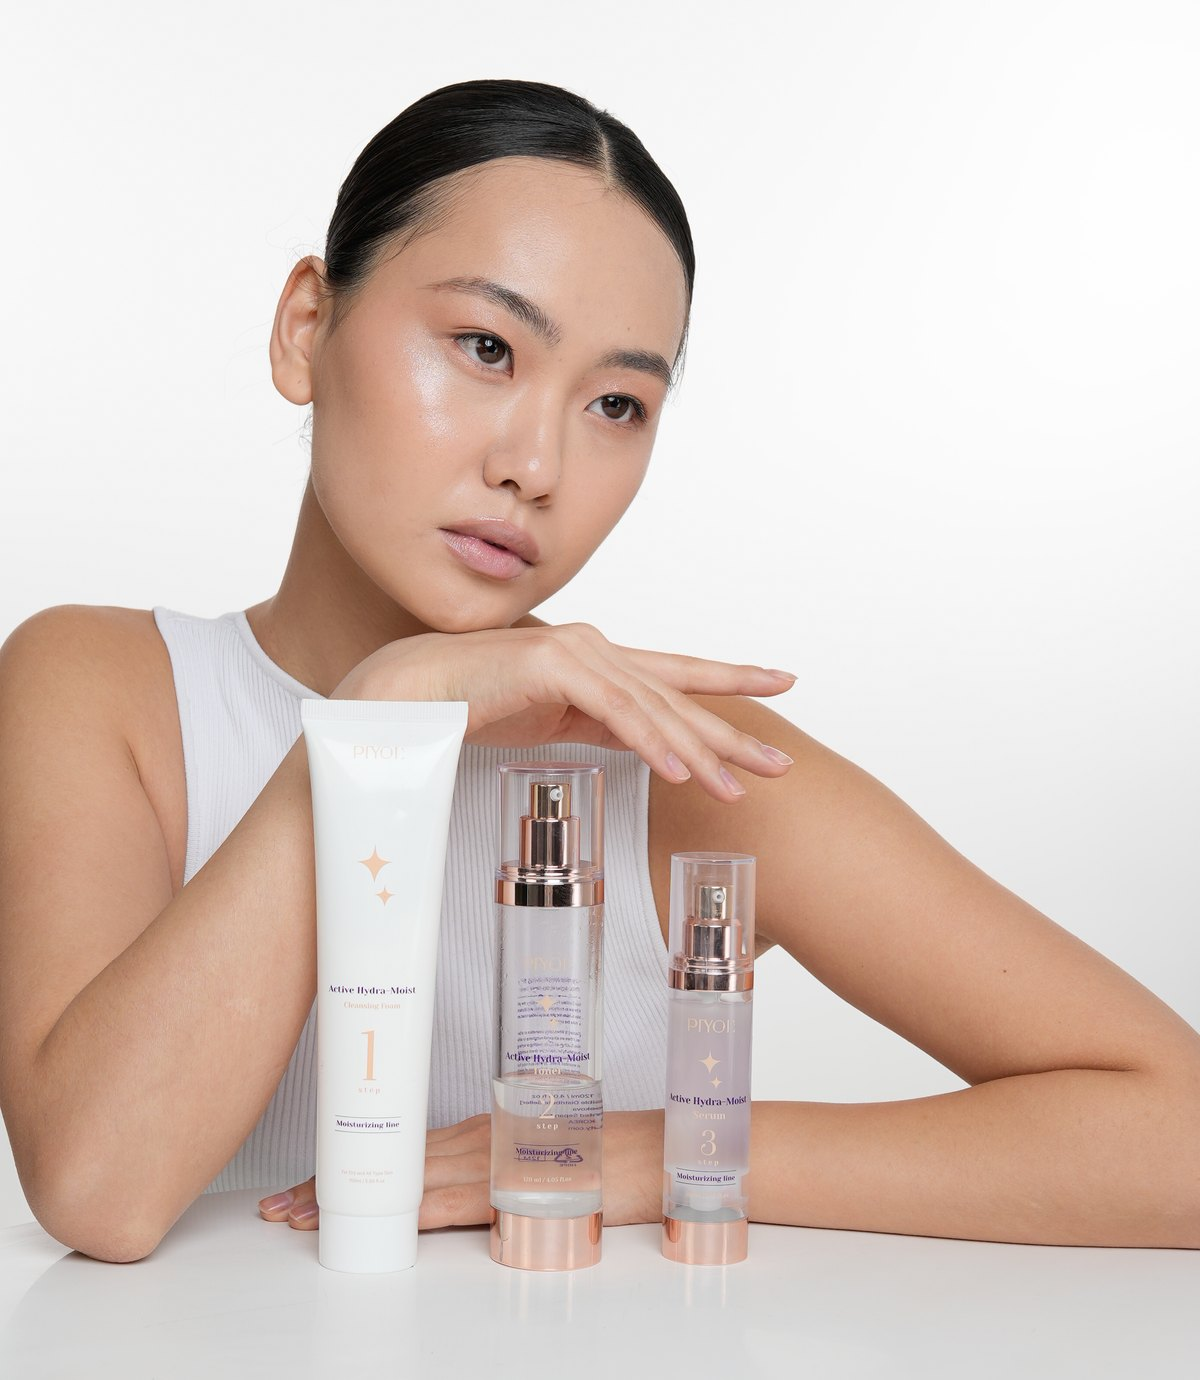
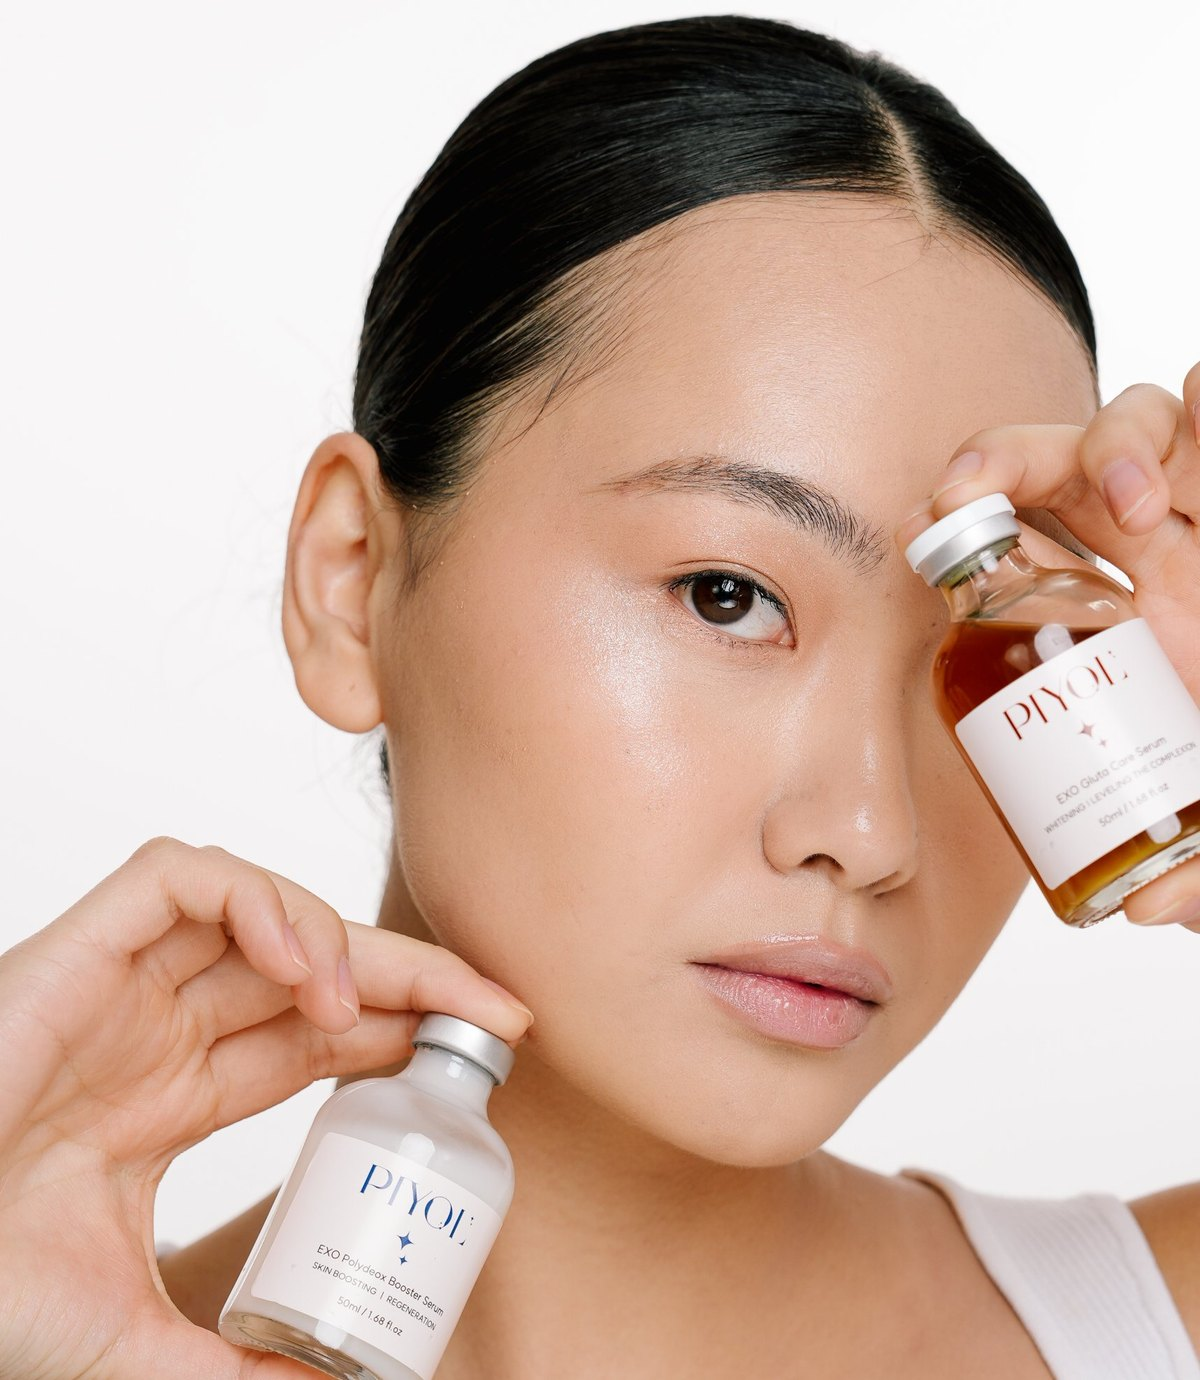
feat(about): new founder and EXO serum photos from the brand shoot
Claude-Session: https://claude.ai/code/session_01PsrvUj4EGwZy3muAqRZJLP

diff --git a/app/about/page.tsx b/app/about/page.tsx
@@ -89,7 +89,7 @@ export default async function About() {
           </div>
         </div>
         <div className="relative mx-auto aspect-[4/5] w-full max-w-[480px] overflow-hidden arch bg-petal/60">
-          <Image src="/brand/founder-products.jpg" alt="Основательница PIYOL' с линией ухода Bio Cell Extra Collagen" fill priority sizes="(min-width: 768px) 42vw, 100vw" className="object-cover object-[30%_center]" />
+          <Image src="/brand/founder-hero.jpg" alt="Основательница PIYOL' с сывороткой PIYOL'" fill priority sizes="(min-width: 768px) 42vw, 100vw" className="object-cover object-top" />
         </div>
       </section>
 
@@ -108,7 +108,7 @@ export default async function About() {
       {/* ── Основательница ── */}
       <section className="mt-20 grid items-center gap-8 rounded-[32px] bg-petal/50 p-6 md:mt-28 md:grid-cols-[220px_1fr] md:gap-12 md:p-12">
         <div className="relative mx-auto size-44 overflow-hidden rounded-full md:size-[220px]">
-          <Image src="/brand/founder.png" alt="Жулдыз Сарсебекова, основательница PIYOL'" fill sizes="220px" className="object-cover" />
+          <Image src="/brand/founder-portrait.jpg" alt="Жулдыз Сарсебекова, основательница PIYOL'" fill sizes="220px" className="object-cover" />
         </div>
         <div>
           <span aria-hidden className="font-display text-[64px] leading-[0.5] text-rose">“</span>
@@ -129,7 +129,7 @@ export default async function About() {
       {/* ── Позиционирование ── */}
       <section className="mt-20 grid items-center gap-10 md:mt-28 md:grid-cols-[0.8fr_1.2fr] md:gap-16" aria-labelledby="positioning">
         <div className="relative mx-auto aspect-[400/460] w-full max-w-[360px] overflow-hidden arch bg-petal/60">
-          <Image src="/brand/positioning.jpg" alt="Ритуал PIYOL' Active Hydra-Moist" fill sizes="(min-width: 768px) 360px, 90vw" className="object-cover" />
+          <Image src="/brand/positioning.jpg" alt="Сыворотки PIYOL' EXO Polydeox Booster и EXO Gluta Care" fill sizes="(min-width: 768px) 360px, 90vw" className="object-cover" />
         </div>
         <div>
           <p className="text-[13px] uppercase tracking-[0.12em] text-mute">Позиционирование</p>
